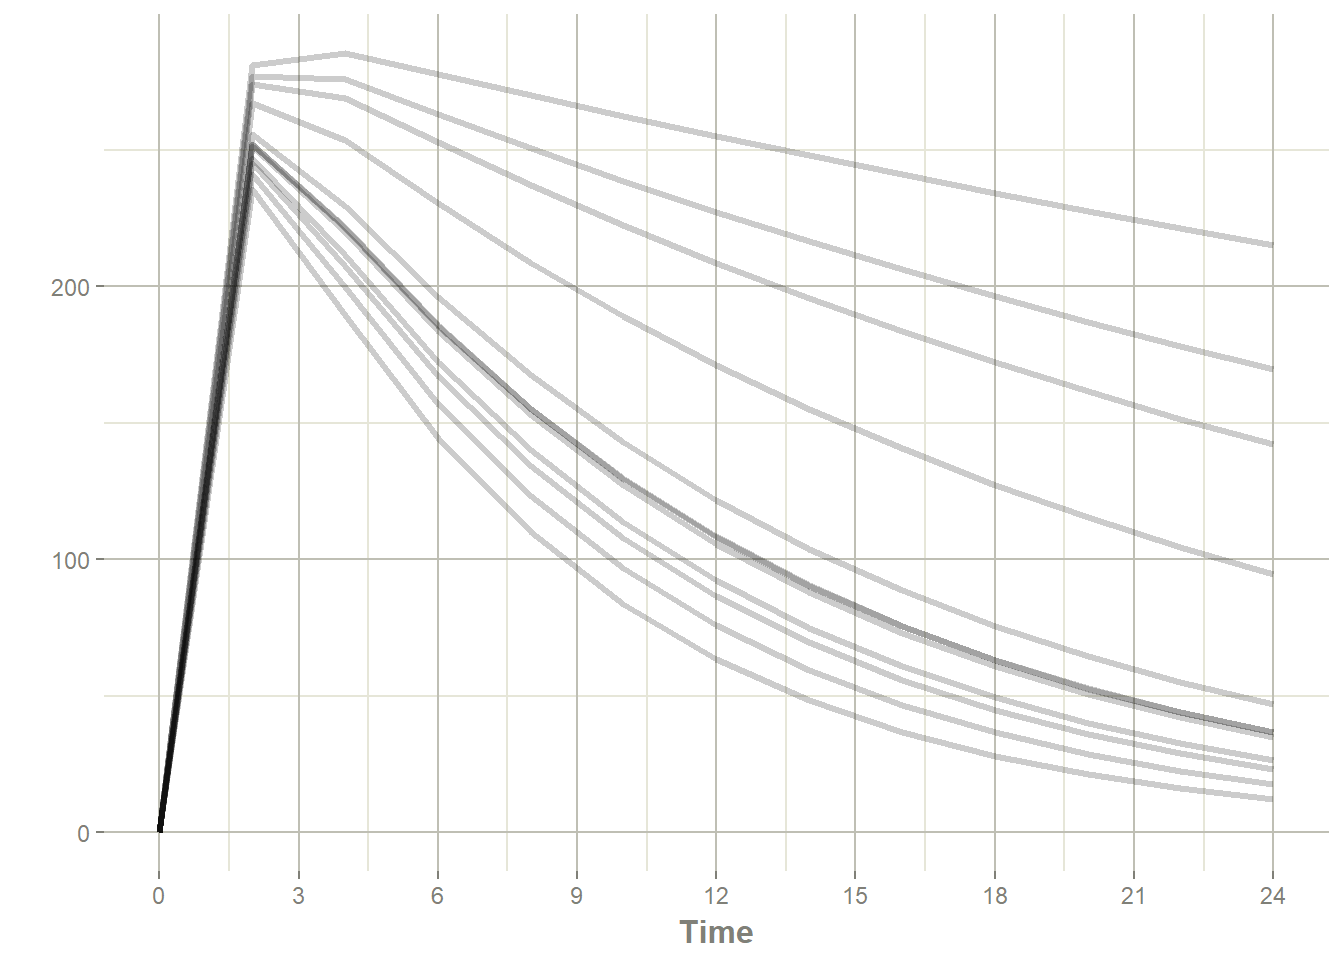
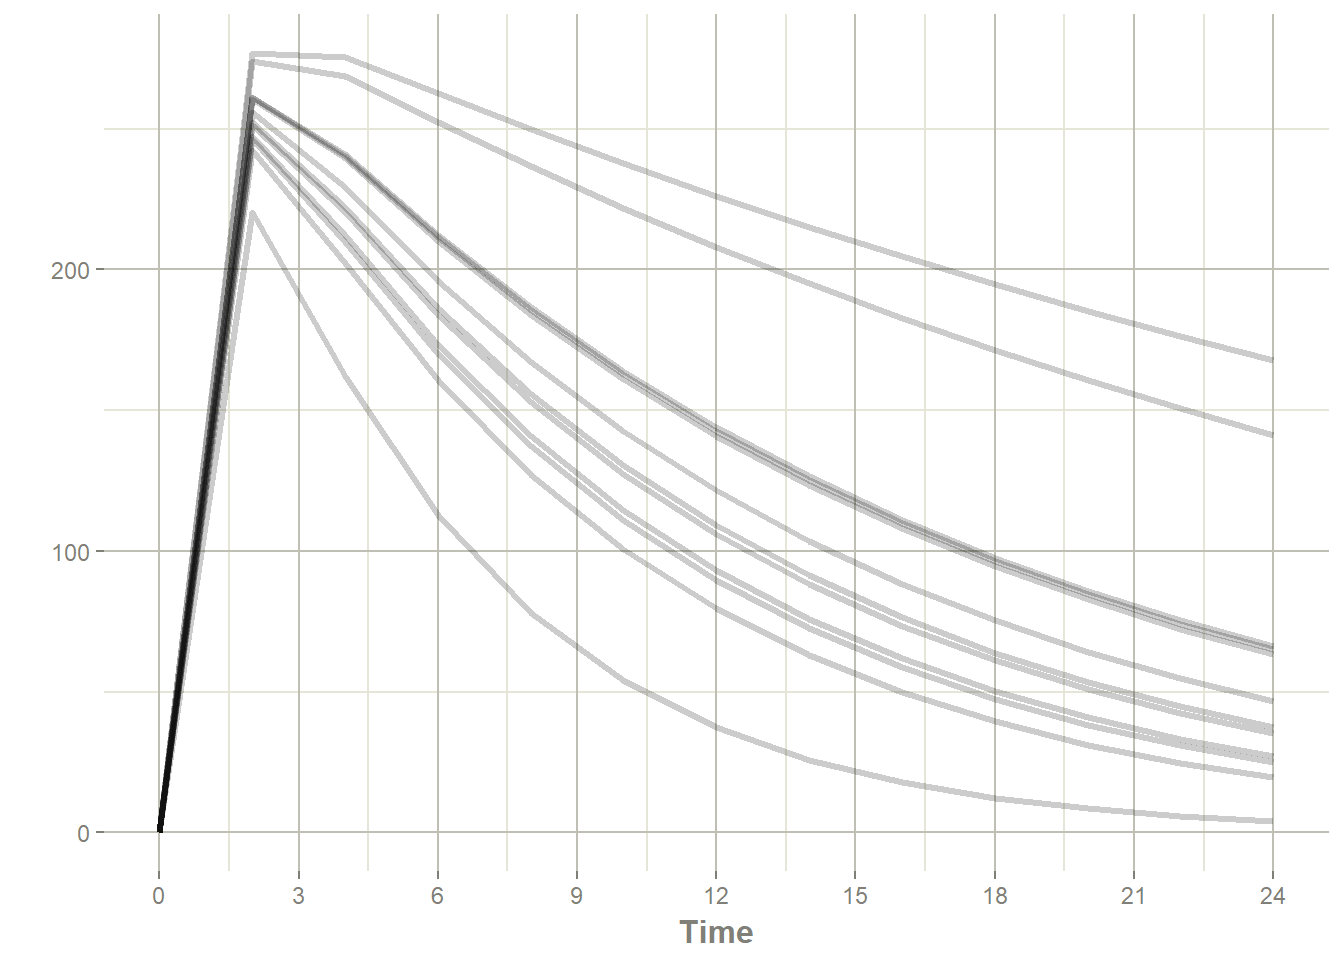
Update

diff --git a/content/blog/2022-10-12-rxode-and-rxode2/index.html b/content/blog/2022-10-12-rxode-and-rxode2/index.html
@@ -90,18 +90,18 @@ s &lt;- rxSolve(one.compartment, et)</code></pre>
 ## # A tibble: 12 × 8
 ##    id      tka   tcl    tv add.sd  eta.ka   eta.cl   eta.v
 ##    &lt;fct&gt; &lt;dbl&gt; &lt;dbl&gt; &lt;dbl&gt;  &lt;dbl&gt;   &lt;dbl&gt;    &lt;dbl&gt;   &lt;dbl&gt;
-##  1 1      0.45     1  3.45    0.7  0.0234 -0.203    0.896 
-##  2 2      0.45     1  3.45    0.7  0.612   0.594    0.158 
-##  3 3      0.45     1  3.45    0.7  0.887  -0.00435  0.377 
-##  4 4      0.45     1  3.45    0.7 -1.55   -0.00567  0.107 
-##  5 5      0.45     1  3.45    0.7  0.820  -0.247   -0.351 
-##  6 6      0.45     1  3.45    0.7  0.328   0.600    0.0390
-##  7 7      0.45     1  3.45    0.7 -1.43   -0.103   -0.533 
-##  8 8      0.45     1  3.45    0.7 -0.0994 -0.0756   0.0163
-##  9 9      0.45     1  3.45    0.7  0.455  -0.372    0.378 
-## 10 10     0.45     1  3.45    0.7  1.28    0.837    0.276 
-## 11 11     0.45     1  3.45    0.7 -0.304  -0.712   -0.421 
-## 12 12     0.45     1  3.45    0.7 -0.752   0.812    0.0955
+##  1 1      0.45     1  3.45    0.7 -0.0254 -1.22    -0.493 
+##  2 2      0.45     1  3.45    0.7 -0.913  -0.0312  -0.0223
+##  3 3      0.45     1  3.45    0.7  1.04   -0.747    0.433 
+##  4 4      0.45     1  3.45    0.7  1.54    0.187    0.0832
+##  5 5      0.45     1  3.45    0.7  0.598  -0.00939  0.173 
+##  6 6      0.45     1  3.45    0.7 -1.12    0.588    0.334 
+##  7 7      0.45     1  3.45    0.7  0.0256  0.847   -0.509 
+##  8 8      0.45     1  3.45    0.7 -0.153  -0.286   -0.241 
+##  9 9      0.45     1  3.45    0.7  1.58   -0.481    0.364 
+## 10 10     0.45     1  3.45    0.7 -0.260  -0.805   -0.688 
+## 11 11     0.45     1  3.45    0.7 -0.268  -0.508    0.289 
+## 12 12     0.45     1  3.45    0.7 -1.17    0.695   -0.509 
 ## ── Initial Conditions ($inits): ──
 ##  depot center 
 ##      0      0 
@@ -109,12 +109,12 @@ s &lt;- rxSolve(one.compartment, et)</code></pre>
 ## # A tibble: 156 × 10
 ##      id  time    ka    cl     v    cp ipredSim    sim       depot center
 ##   &lt;int&gt; &lt;dbl&gt; &lt;dbl&gt; &lt;dbl&gt; &lt;dbl&gt; &lt;dbl&gt;    &lt;dbl&gt;  &lt;dbl&gt;       &lt;dbl&gt;  &lt;dbl&gt;
-## 1     1     0  1.61  2.22  77.2  0        0    -0.477 300             0 
-## 2     1     2  1.61  2.22  77.2  3.58     3.58  4.39   12.1         276.
-## 3     1     4  1.61  2.22  77.2  3.52     3.52  3.55    0.488       272.
-## 4     1     6  1.61  2.22  77.2  3.33     3.33  2.62    0.0197      257.
-## 5     1     8  1.61  2.22  77.2  3.15     3.15  3.27    0.000793    243.
-## 6     1    10  1.61  2.22  77.2  2.97     2.97  3.85    0.0000320   229.
+## 1     1     0  1.53 0.800  19.2   0        0   -0.413 300             0 
+## 2     1     2  1.53 0.800  19.2  14.0     14.0 13.6    14.1         269.
+## 3     1     4  1.53 0.800  19.2  13.5     13.5 13.5     0.662       260.
+## 4     1     6  1.53 0.800  19.2  12.5     12.5 12.4     0.0311      240.
+## 5     1     8  1.53 0.800  19.2  11.5     11.5 11.9     0.00146     221.
+## 6     1    10  1.53 0.800  19.2  10.6     10.6 10.4     0.0000687   203.
 ## # … with 150 more rows</code></pre>
 <pre class="r"><code>plot(s, center)</code></pre>
 <p><img src="{{< blogdown/postref >}}index_files/figure-html/simulation-1.png" width="672" /></p>
@@ -174,33 +174,33 @@ print(s)</code></pre>
 <pre><code>## ── Solved rxode2 object ──
 ## ── Parameters ($params): ──
 ## # A tibble: 12 × 7
-##    id      tka   tcl    tv add.sd  eta.cl   eta.v
-##    &lt;fct&gt; &lt;dbl&gt; &lt;dbl&gt; &lt;dbl&gt;  &lt;dbl&gt;   &lt;dbl&gt;   &lt;dbl&gt;
-##  1 1      0.45     1  3.45    0.7  0.415   0.177 
-##  2 2      0.45     1  3.45    0.7 -1.30    0.497 
-##  3 3      0.45     1  3.45    0.7 -0.309  -0.351 
-##  4 4      0.45     1  3.45    0.7 -0.0349 -0.0980
-##  5 5      0.45     1  3.45    0.7  0.389  -0.0719
-##  6 6      0.45     1  3.45    0.7 -0.354   0.638 
-##  7 7      0.45     1  3.45    0.7 -0.138  -0.178 
-##  8 8      0.45     1  3.45    0.7  0.265   0.0791
-##  9 9      0.45     1  3.45    0.7 -0.316  -0.233 
-## 10 10     0.45     1  3.45    0.7  0.254  -0.0865
-## 11 11     0.45     1  3.45    0.7 -1.45   -0.192 
-## 12 12     0.45     1  3.45    0.7 -0.617  -0.0583
+##    id      tka   tcl    tv add.sd  eta.cl    eta.v
+##    &lt;fct&gt; &lt;dbl&gt; &lt;dbl&gt; &lt;dbl&gt;  &lt;dbl&gt;   &lt;dbl&gt;    &lt;dbl&gt;
+##  1 1      0.45     1  3.45    0.7 -0.129  -0.0487 
+##  2 2      0.45     1  3.45    0.7  0.492   0.432  
+##  3 3      0.45     1  3.45    0.7  0.221  -0.536  
+##  4 4      0.45     1  3.45    0.7 -0.828   0.157  
+##  5 5      0.45     1  3.45    0.7 -0.251   0.00831
+##  6 6      0.45     1  3.45    0.7  0.0722 -0.233  
+##  7 7      0.45     1  3.45    0.7 -0.226   0.0506 
+##  8 8      0.45     1  3.45    0.7 -0.319  -0.352  
+##  9 9      0.45     1  3.45    0.7  0.292   0.115  
+## 10 10     0.45     1  3.45    0.7 -0.857  -0.569  
+## 11 11     0.45     1  3.45    0.7  0.264   0.0543 
+## 12 12     0.45     1  3.45    0.7 -1.12    0.121  
 ## ── Initial Conditions ($inits): ──
 ##  depot center 
 ##      0      0 
 ## ── First part of data (object): ──
 ## # A tibble: 156 × 10
-##      id  time    ka    cl     v    cp ipredSim    sim       depot center
-##   &lt;int&gt; &lt;dbl&gt; &lt;dbl&gt; &lt;dbl&gt; &lt;dbl&gt; &lt;dbl&gt;    &lt;dbl&gt;  &lt;dbl&gt;       &lt;dbl&gt;  &lt;dbl&gt;
-## 1     1     0  1.57  4.12  37.6  0        0    0.0351 300             0 
-## 2     1     2  1.57  4.12  37.6  6.52     6.52 5.52    13.0         245.
-## 3     1     4  1.57  4.12  37.6  5.52     5.52 5.24     0.566       207.
-## 4     1     6  1.57  4.12  37.6  4.45     4.45 4.71     0.0246      167.
-## 5     1     8  1.57  4.12  37.6  3.57     3.57 4.19     0.00107     134.
-## 6     1    10  1.57  4.12  37.6  2.87     2.87 2.33     0.0000463   108.
+##      id  time    ka    cl     v    cp ipredSim     sim       depot center
+##   &lt;int&gt; &lt;dbl&gt; &lt;dbl&gt; &lt;dbl&gt; &lt;dbl&gt; &lt;dbl&gt;    &lt;dbl&gt;   &lt;dbl&gt;       &lt;dbl&gt;  &lt;dbl&gt;
+## 1     1     0  1.57  2.39  30.0  0        0    -0.0765 300             0 
+## 2     1     2  1.57  2.39  30.0  8.53     8.53  9.40    13.0         256.
+## 3     1     4  1.57  2.39  30.0  7.64     7.64  8.63     0.566       229.
+## 4     1     6  1.57  2.39  30.0  6.53     6.53  6.41     0.0246      196.
+## 5     1     8  1.57  2.39  30.0  5.57     5.57  6.04     0.00107     167.
+## 6     1    10  1.57  2.39  30.0  4.75     4.75  4.52     0.0000463   143.
 ## # … with 150 more rows</code></pre>
 <pre class="r"><code>plot(s, center)</code></pre>
 <p><img src="{{< blogdown/postref >}}index_files/figure-html/piping-1.png" width="672" /></p>
